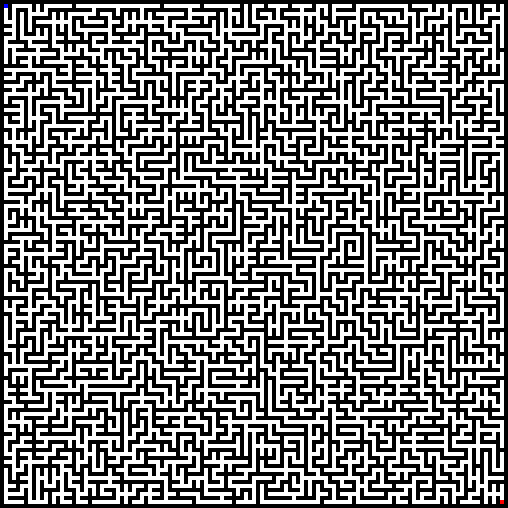
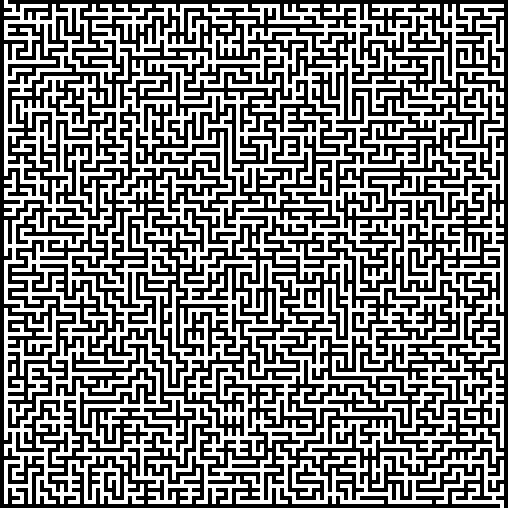
Separate `Maze` as a library

Changed region(s): [[0.0, 0.0, 1.0, 1.0]]

diff --git a/Sources/Maze/MazeMaking.swift b/Sources/Maze/MazeMaking.swift
@@ -1,0 +1,151 @@
+// Making a maze using the algorithm
+// explained at https://algoful.com/Archive/Algorithm/MazeExtend
+
+extension Maze {
+    @inlinable
+    public static func makeMaze(width: Int, height: Int, start: Cell, goal: Cell, path: Cell, wall: Cell) throws -> Maze<Cell> {
+        guard width >= 3, width.isOdd, height >= 3, height.isOdd else {
+            throw MazeMakingError(width: width, height: height)
+        }
+        
+        var maze = Maze<MazeCell>(
+            width: width,
+            height: height,
+            cells: .init(repeating: .path, count: width * height)
+        )
+        
+        // making walls
+        for x in maze.xRange {
+            maze[x, maze.yRange.startIndex] = .wall(0)
+            maze[x, maze.yRange.endIndex - 1] = .wall(0)
+        }
+        for y in maze.yRange {
+            maze[maze.xRange.startIndex, y] = .wall(0)
+            maze[maze.xRange.endIndex - 1, y] = .wall(0)
+        }
+        
+        var pointsToStartWall: [(Int, Int)] = []
+        for y in maze.yRange {
+            guard y.isEven else { continue }
+            for x in maze.xRange {
+                guard x.isEven else { continue }
+                pointsToStartWall.append((x, y))
+            }
+        }
+        pointsToStartWall.shuffle()
+
+        var wallCount: Int = 0
+        wallsMaking: while let (x, y) = pointsToStartWall.popLast() {
+            guard maze[x, y] == .path else { continue }
+            
+            wallCount += 1
+            
+            var wallPoints: [(Int, Int)] = []
+            
+            var point = (x, y)
+            wallMaking: while true {
+                maze[point] = .wall(wallCount)
+                wallPoints.append(point)
+
+                for direction in directions.shuffled() {
+                    guard maze[point + direction] == .path else { continue }
+                    if maze[point + direction * 2] == .wall(wallCount) { continue }
+                    
+                    point += direction
+                    maze[point] = .wall(wallCount)
+                    
+                    point += direction
+                    if maze[point] == .path {
+                        continue wallMaking
+                    } else {
+                        continue wallsMaking
+                    }
+                }
+                
+                guard let _ = wallPoints.popLast() else {
+                    preconditionFailure("Never reaches here.")
+                }
+                guard let nextPoint = wallPoints.popLast() else {
+                    preconditionFailure("Never reaches here.")
+                }
+                point = nextPoint
+            }
+        }
+        
+        // making start and goal
+        maze[maze.xRange.startIndex + 1, maze.yRange.startIndex] = .start
+        maze[maze.xRange.endIndex - 2, maze.yRange.endIndex - 1] = .goal
+        
+        return maze.map { cell in
+            switch cell {
+            case .start: return start
+            case .goal: return goal
+            case .path: return path
+            case .wall(_): return wall
+            }
+        }
+    }
+}
+
+extension Maze {
+    @inlinable
+    subscript(point: (Int, Int)) -> Cell {
+        get { self[point.0, point.1] }
+        set { self[point.0, point.1] = newValue }
+    }
+}
+
+extension Int {
+    @inlinable
+    var isOdd: Bool {
+        !isMultiple(of: 2)
+    }
+    
+    @inlinable
+    var isEven: Bool {
+        isMultiple(of: 2)
+    }
+}
+
+@usableFromInline
+enum MazeCell: Equatable {
+    case start
+    case goal
+    case path
+    case wall(Int)
+}
+
+@usableFromInline
+struct MazeMakingError: Error, CustomStringConvertible {
+    public let width: Int
+    public let height: Int
+    
+    @inlinable
+    public init(width: Int, height: Int) {
+        self.width = width
+        self.height = height
+    }
+    
+    @inlinable
+    public var description: String {
+        "The width and the height must be a odd number greater than or equal to 7: width = \(width), height = \(height)"
+    }
+}
+
+@usableFromInline
+let directions: [(Int, Int)] = [(-1, 0), (0, -1), (1, 0), (0, 1)]
+
+@inlinable
+func +(lhs: (Int, Int), rhs: (Int, Int)) -> (Int, Int) {
+    return (lhs.0 + rhs.0, lhs.1 + rhs.1)
+}
+
+@inlinable
+func +=(lhs: inout (Int, Int), rhs: (Int, Int)) {
+    lhs = lhs + rhs
+}
+
+@inlinable
+func *(lhs: (Int, Int), rhs: Int) -> (Int, Int) {
+    return (lhs.0 * rhs, lhs.1 * rhs)
+}

diff --git a/Sources/Maze/Maze.swift b/Sources/Maze/Maze.swift
@@ -1,0 +1,49 @@
+public struct Maze<Cell> {
+    public let width: Int
+    public let height: Int
+    @usableFromInline
+    var cells: [Cell]
+    
+    @inlinable
+    public init(width: Int, height: Int, cells: [Cell]) {
+        precondition(width >= 0, "`width` cannot be negative: width = \(width)")
+        precondition(height >= 0, "`height` cannot be negative: height = \(height)")
+        precondition(cells.count == width * height, "`cells.count` must be equal to `width * height`: cells.count = \(cells.count), width = \(width), height = \(height), width * height = \(width * height)")
+        
+        self.width = width
+        self.height = height
+        self.cells = cells
+    }
+    
+    @inlinable
+    public var xRange: Range<Int> { 0 ..< width }
+    @inlinable
+    public var yRange: Range<Int> { 0 ..< height }
+    
+    @inlinable
+    func cellIndexAt(x: Int, y: Int) -> Int {
+        precondition(xRange.contains(x))
+        precondition(yRange.contains(y))
+        return y * width + x
+    }
+    
+    @inlinable
+    public subscript(x: Int, y: Int) -> Cell {
+        get { cells[cellIndexAt(x: x, y: y)] }
+        set { cells[cellIndexAt(x: x, y: y)] = newValue }
+    }
+}
+
+extension Maze {
+    @inlinable
+    public func map<T>(_ body: @escaping (Cell) throws -> T) rethrows -> Maze<T> {
+        .init(width: width, height: height, cells: try cells.map(body))
+    }
+}
+
+extension Maze: Sequence {
+    @inlinable
+    public func makeIterator() -> IndexingIterator<[Cell]> {
+        cells.makeIterator()
+    }
+}

diff --git a/Package.swift b/Package.swift
@@ -5,6 +5,10 @@ import PackageDescription
 
 let package = Package(
     name: "makemaze",
+    products: [
+        .library(name: "Maze", targets: ["Maze"]),
+        .executable(name: "makemaze", targets: ["makemaze"]),
+    ],
     dependencies: [
         // Dependencies declare other packages that this package depends on.
         // .package(url: /* package url */, from: "1.0.0"),
@@ -15,8 +19,14 @@ let package = Package(
         // Targets are the basic building blocks of a package. A target can define a module or a test suite.
         // Targets can depend on other targets in this package, and on products in packages which this package depends on.
         .target(
+            name: "Maze",
+            dependencies: []),
+        .target(
             name: "makemaze",
-            dependencies: ["SwiftImage", "Commander"]),
+            dependencies: ["Maze", "SwiftImage", "Commander"]),
+        .testTarget(
+            name: "MazeTests",
+            dependencies: ["Maze"]),
         .testTarget(
             name: "makemazeTests",
             dependencies: ["makemaze"]),

diff --git a/Sources/makemaze/main.swift b/Sources/makemaze/main.swift
@@ -1,4 +1,5 @@
 import Foundation
+import Maze
 import SwiftImage
 import Commander
 
@@ -17,8 +18,9 @@ command(
         return $0
     }
 ) { width, height, scale in
-    var maze: Image<MazeCell> = try .init(width: width, height: height)
-    maze = maze.resizedTo(width: width * scale, height: height * scale)
-    let data: Data = maze.map { $0.color }.data(using: .png)!
+    let maze: Maze<UInt8> = try .makeMaze(width: width, height: height, start: 255, goal: 255, path: 255, wall: 0)
+    var mazeImage: Image<UInt8> = .init(width: maze.width, height: maze.height, pixels: maze)
+    mazeImage = mazeImage.resizedTo(width: width * scale, height: height * scale, interpolatedBy: .nearestNeighbor)
+    let data: Data = mazeImage.data(using: .png)!
     FileHandle.standardOutput.write(data)
 }.run()
